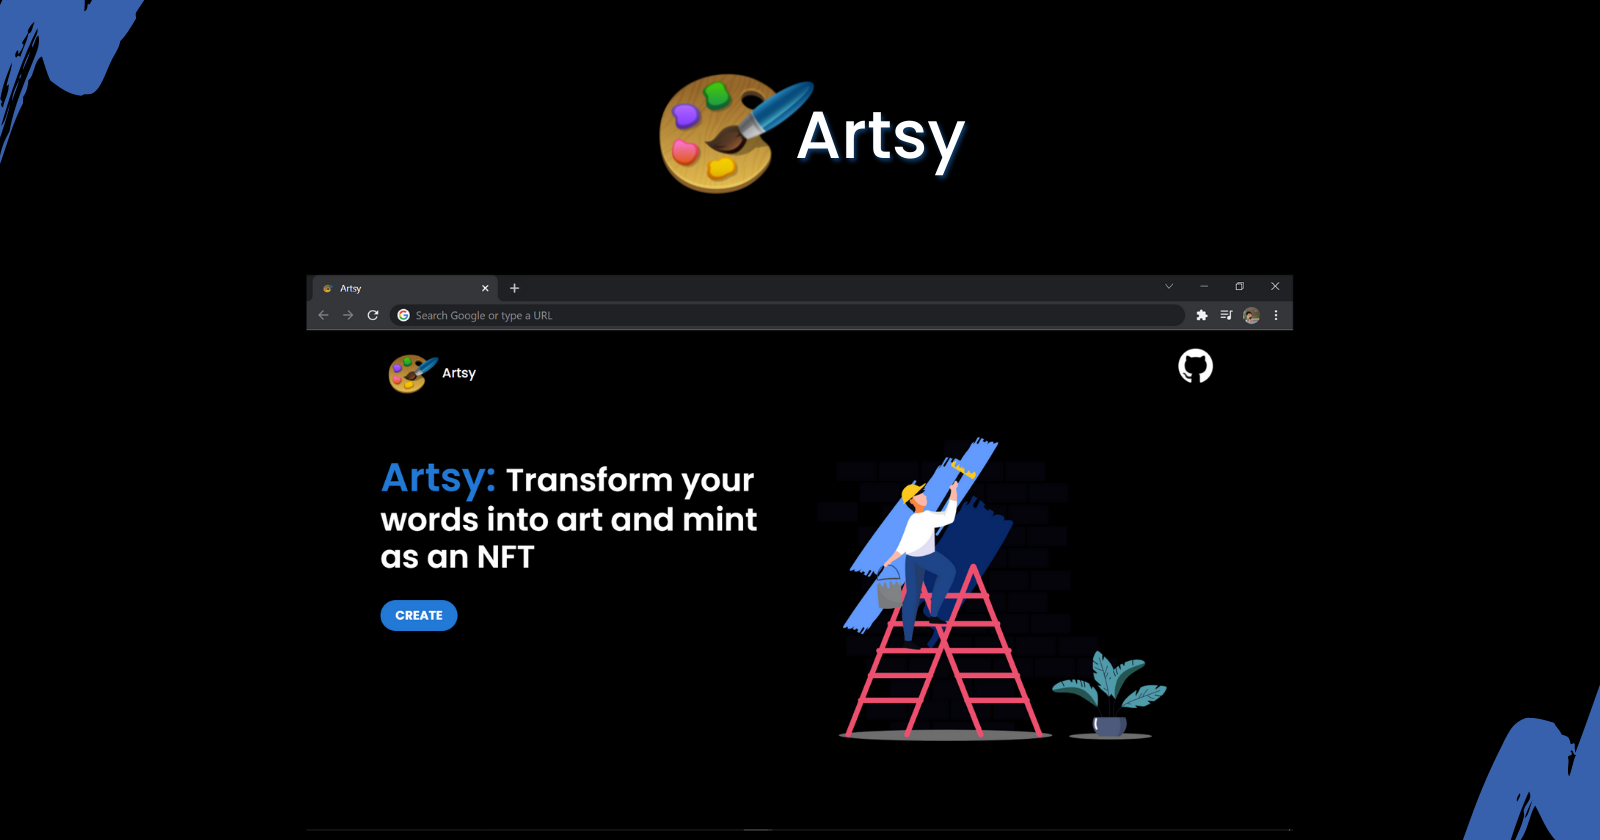
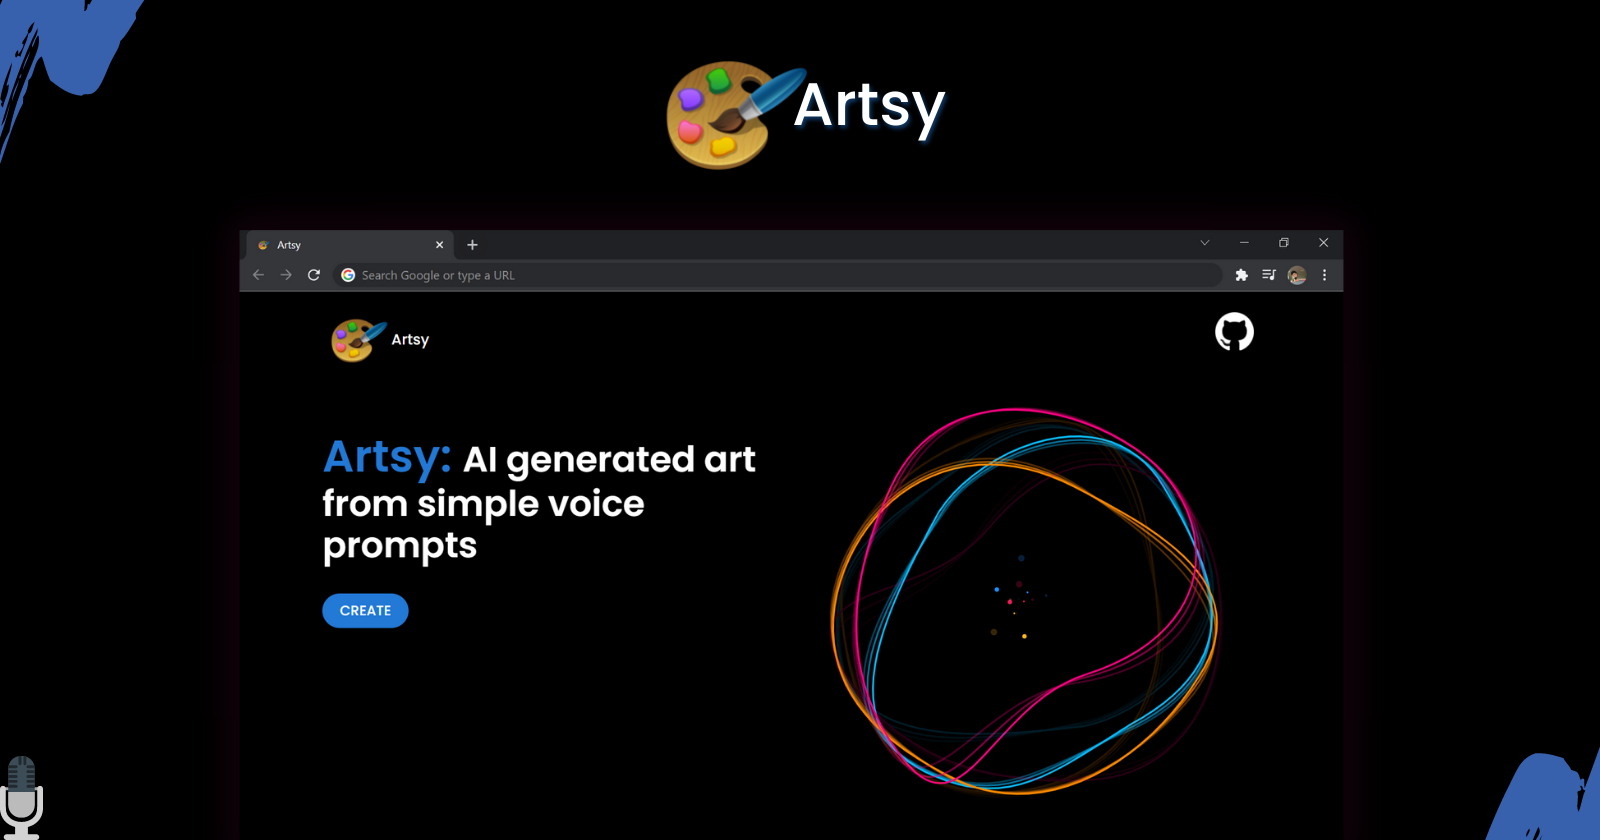
updated readme

diff --git a/public/index.html b/public/index.html
@@ -18,27 +18,29 @@
 
   <meta name="keywords" content="
 		artsy,
-		text to art,
-		text 2 art,
-		image to nft,
-		text to image,
-		text 2 image,
-		text to image to nft,
-		nfts" />
+    speech to text,
+    STT,
+    hotpot.ai,
+    hotpot ai,
+    deepgram ai,
+    deepgram,
+    ai art,
+    ai generated art
+    " />
 
   <!-- Open Graph / Facebook -->
   <meta property="og:type" content="website">
   <meta property="og:url" content="https://artsy-rho.vercel.app/">
   <meta property="og:title" content="Artsy">
-  <meta property="og:description" content="Transform your words to an image and make it an nft">
+  <meta property="og:description" content="AI generated art from simple voice prompts">
   <meta property="og:image" content="%PUBLIC_URL%/banner.png">
 
   <!-- Twitter -->
-	<meta property="twitter:card" content="summary_large_image">
-	<meta property="twitter:url" content="https://artsy-rho.vercel.app/">
-	<meta property="twitter:title" content="Artsy">
-	<meta property="twitter:description" content="Transform your words to an image and make it an nft">
-	<meta property="twitter:image" content="%PUBLIC_URL%/banner.png">
+  <meta property="twitter:card" content="summary_large_image">
+  <meta property="twitter:url" content="https://artsy-rho.vercel.app/">
+  <meta property="twitter:title" content="Artsy">
+  <meta property="twitter:description" content="AI generated art from simple voice prompts">
+  <meta property="twitter:image" content="%PUBLIC_URL%/banner.png">
 
   <link
     href="https://fonts.googleapis.com/css2?family=Poppins:ital,wght@0,100;0,200;0,300;0,400;0,500;0,600;0,700;0,800;0,900;1,100;1,200;1,300;1,400;1,500;1,600;1,700;1,800;1,900&display=swap"
